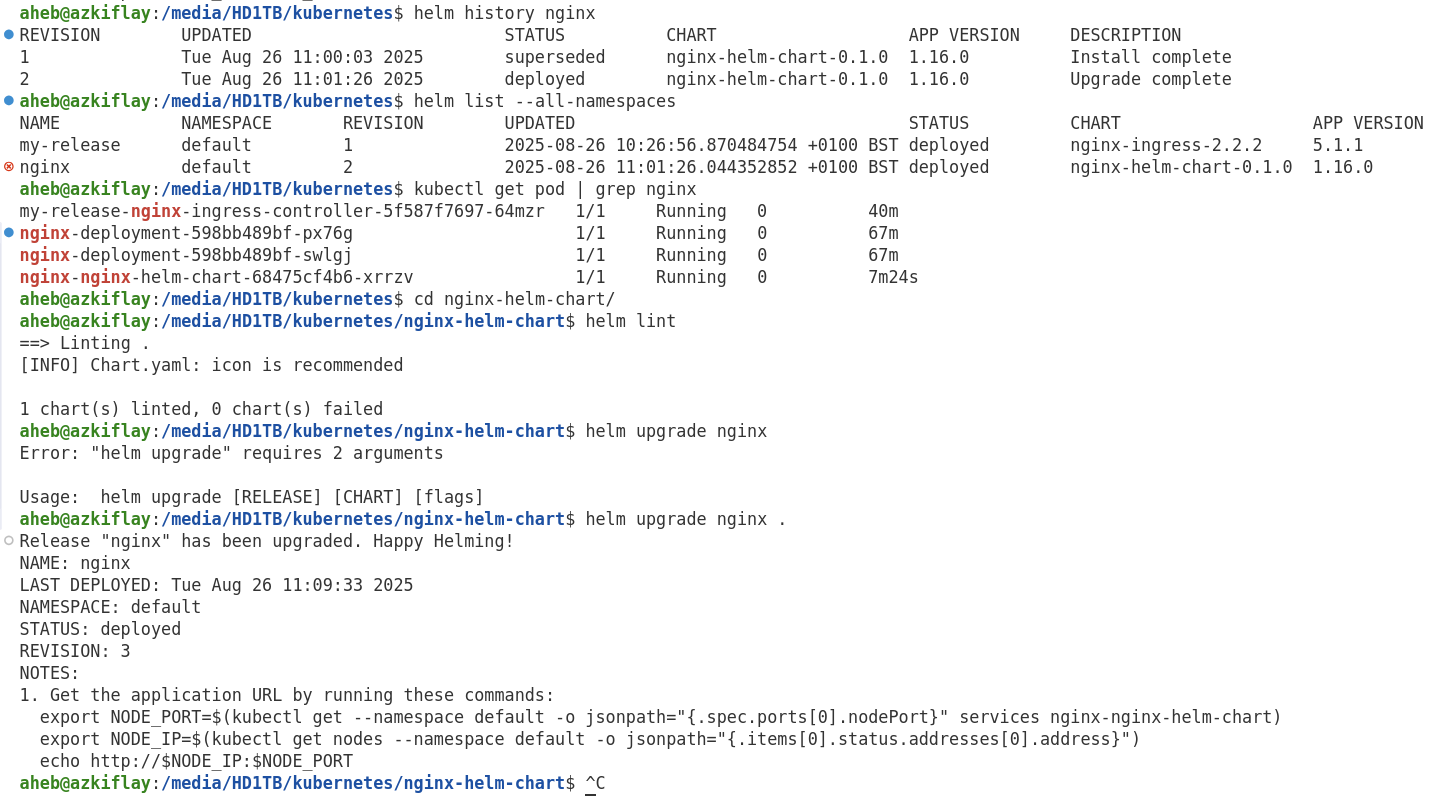
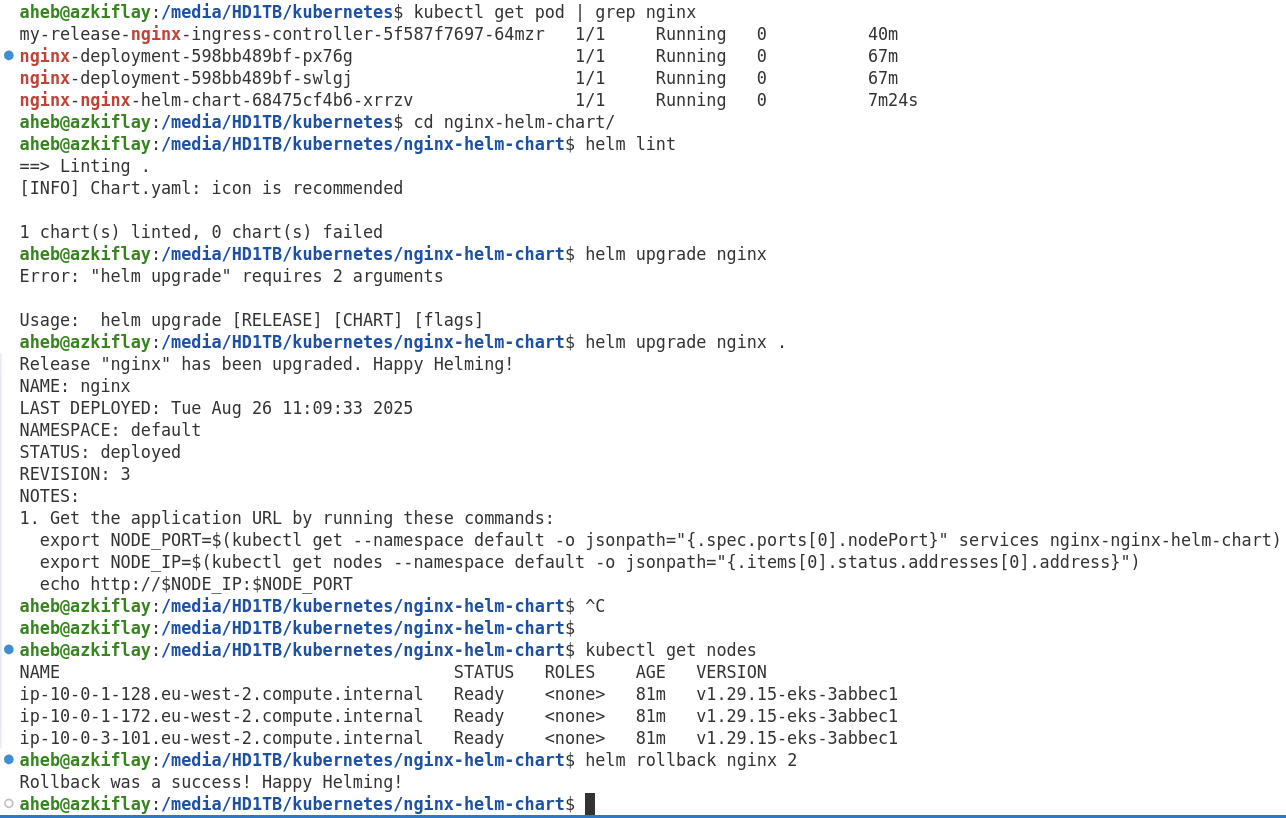
Helm

diff --git a/README.md b/README.md
@@ -614,8 +614,10 @@ In the above example, while "**helm create ...** deploys nginx with default sett
   cd nginx-helm-chart
   helm lint
   helm upgrade nginx .
-  helm list --all-namespaces
+  helm history nginx
   kubectl get pod | grep nginx
+  helm list --all-namespaces
+  
   helm history nginx
   helm rollback nginx 2
 ```
